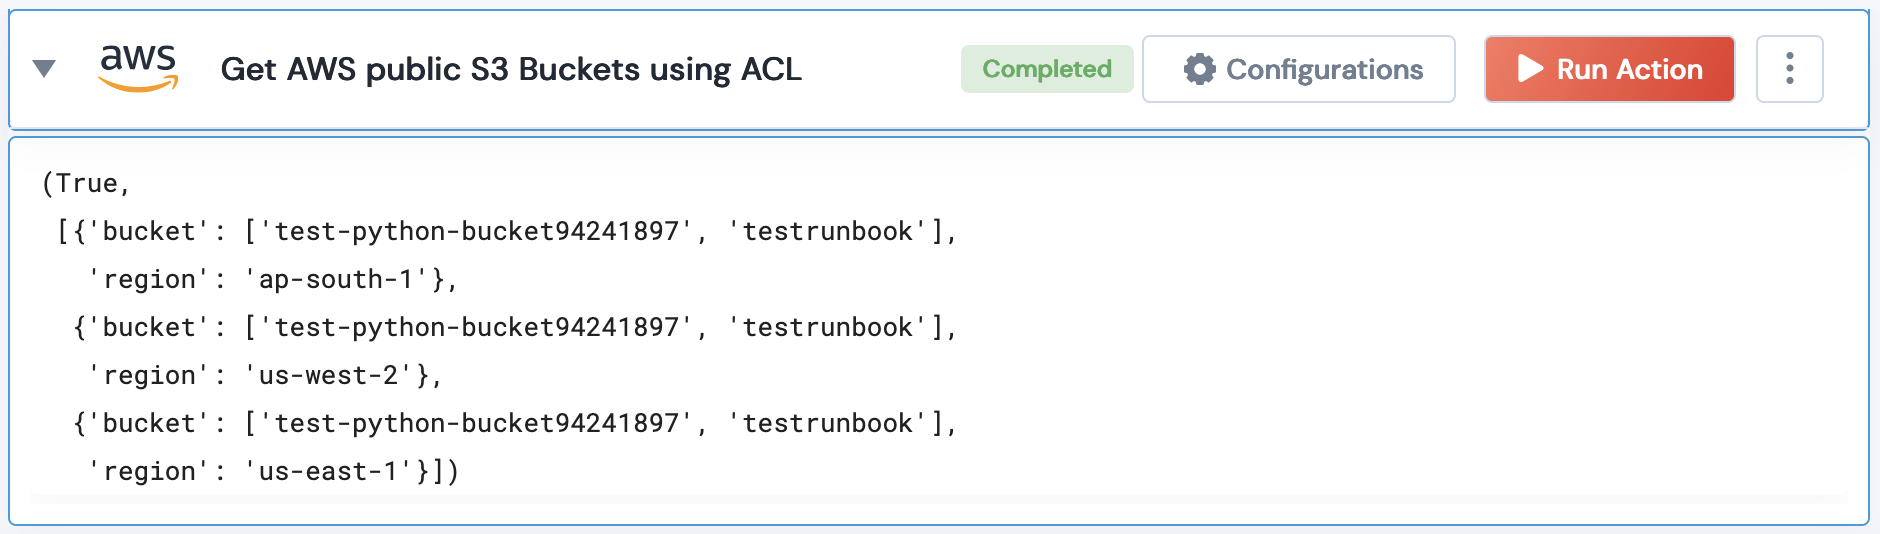
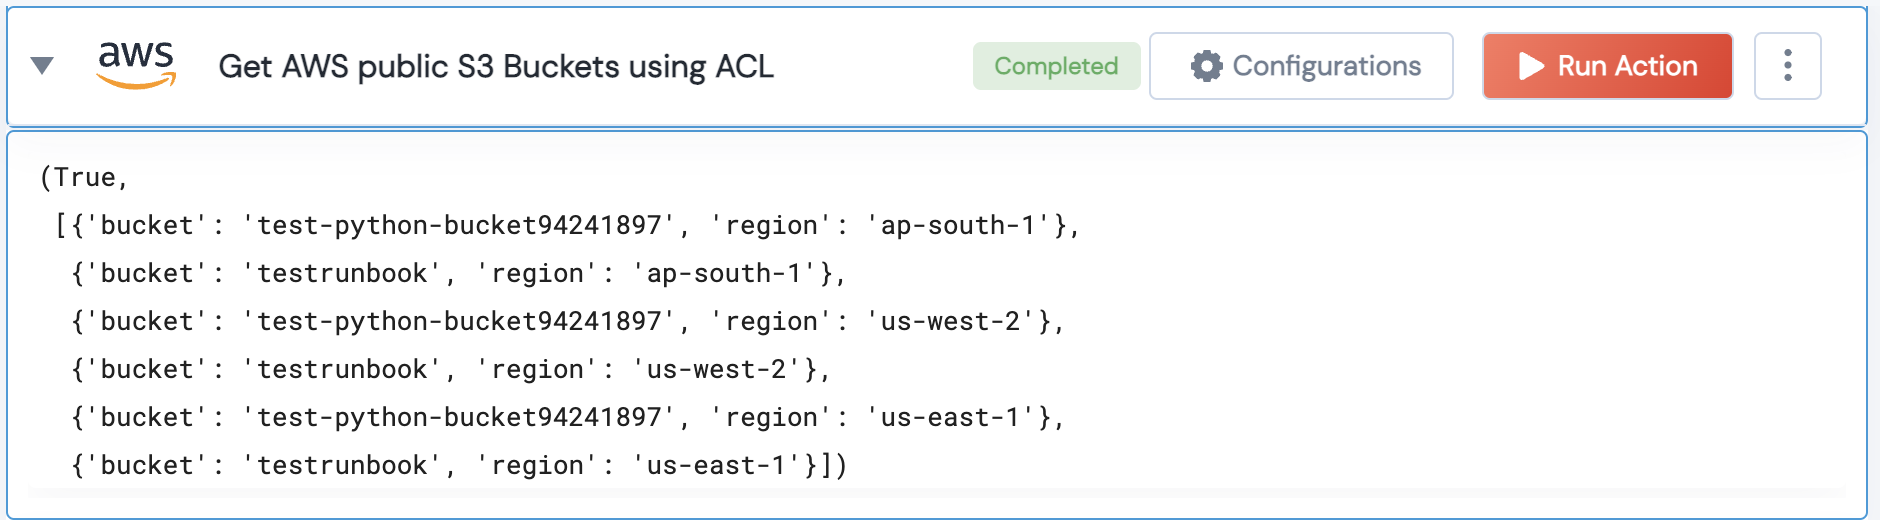
Modified lego to return list of objects

diff --git a/AWS/legos/aws_filter_public_s3_buckets_by_acl/aws_filter_public_s3_buckets_by_acl.py b/AWS/legos/aws_filter_public_s3_buckets_by_acl/aws_filter_public_s3_buckets_by_acl.py
@@ -21,22 +21,19 @@ def aws_get_public_s3_buckets_printer(output):
         return
     pprint.pprint(output)
 
-def check_publicly_accessible_buckets(s3Client,bucket,permission):
-    result = []
-    public_buckets = []
+def check_publicly_accessible_buckets(s3Client,b,permission):
     public_check = ["http://acs.amazonaws.com/groups/global/AuthenticatedUsers",
                    "http://acs.amazonaws.com/groups/global/AllUsers"]
-    for b in bucket['bucket']:
-        try:
-            res = s3Client.get_bucket_acl(Bucket=b)
-            for perm in permission:
-                for grant in res["Grants"]:
-                    if 'Permission' in grant.keys() and perm == grant["Permission"]:
-                        if 'URI' in grant["Grantee"] and grant["Grantee"]["URI"] in public_check:
-                            if b not in public_buckets:
-                                public_buckets.append(b)
-        except Exception as e:
-            continue
+    public_buckets = False
+    try:
+        res = s3Client.get_bucket_acl(Bucket=b)
+        for perm in permission:
+            for grant in res["Grants"]:
+                if 'Permission' in grant.keys() and perm == grant["Permission"]:
+                    if 'URI' in grant["Grantee"] and grant["Grantee"]["URI"] in public_check:
+                        public_buckets = True
+    except Exception as e:
+        pass
     return public_buckets
 
 def aws_get_public_s3_buckets(handle, region: str=None) -> Tuple:
@@ -55,27 +52,26 @@ def aws_get_public_s3_buckets(handle, region: str=None) -> Tuple:
     result = []
     all_buckets = []
     all_regions = [region]
-    if region is None or not region:
+    if region is None or len(region)==0:
         all_regions = aws_list_all_regions(handle=handle)
     try:
         for r in all_regions:
-            all_buckets_dict = {}
             s3Client = handle.client('s3',region_name=r)
-            output =aws_get_s3_buckets(handle=handle, region=r)
-            if len(output)!=0:
-                all_buckets_dict["region"]=r
-                all_buckets_dict["bucket"]=output
-                all_buckets.append(all_buckets_dict)
+            output = aws_get_s3_buckets(handle=handle, region=r)
+            if len(output)!= 0:
+                for o in output:
+                    all_buckets_dict = {}
+                    all_buckets_dict["region"]=r
+                    all_buckets_dict["bucket"]=o
+                    all_buckets.append(all_buckets_dict)
     except Exception as e:
         pass
     for bucket in all_buckets:
         try:
-            b_dict = {}
             s3Client = handle.client('s3',region_name= bucket['region'])
-            o = check_publicly_accessible_buckets(s3Client,bucket, permission)
-            b_dict["region"] = bucket['region']
-            b_dict["bucket"] = o
-            result = [*result, b_dict]
+            flag = check_publicly_accessible_buckets(s3Client,bucket['bucket'], permission)
+            if flag:
+                result.append(bucket)
         except Exception as e:
             pass
     execution_flag = False
